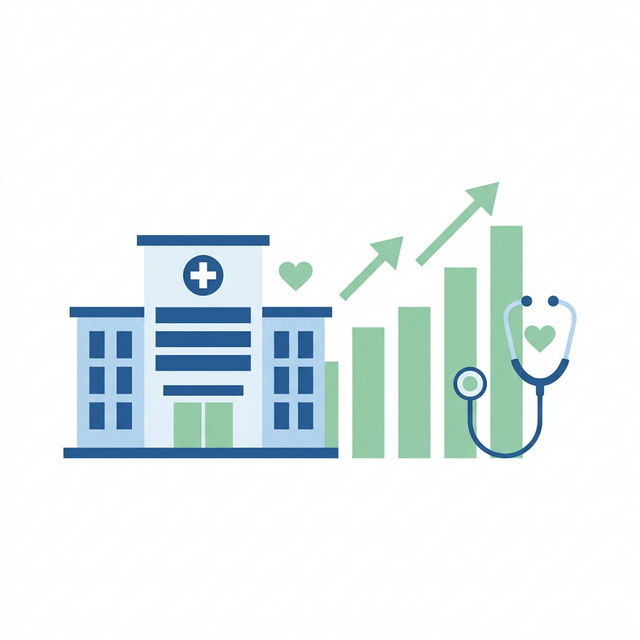
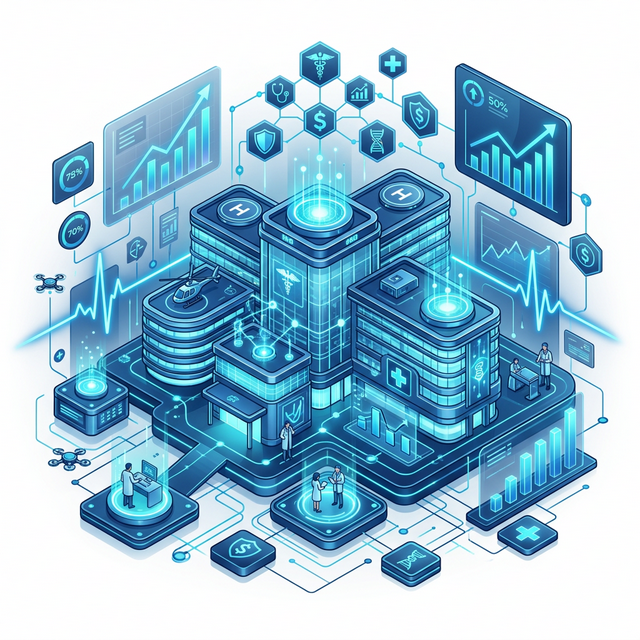
add login page new design

diff --git a/bootstrap/app.php b/bootstrap/app.php
@@ -30,7 +30,6 @@ return Application::configure(basePath: dirname(__DIR__))
             if ($request->expectsJson()) {
                 return response()->json(['message' => __('Session expired. Please try again.')], 419);
             }
-            // If session expired on logout, send to login instead of back (avoids 419 page)
             if ($request->is('logout')) {
                 return redirect()->route('login')
                     ->with('error', __('Session expired. Please try again.'));
@@ -38,5 +37,20 @@ return Application::configure(basePath: dirname(__DIR__))
             return redirect()->back()
                 ->withInput($request->except('password', '_token'))
                 ->with('error', __('Session expired. Please try again.'));
+        });
+
+        // عند خطأ صلاحيات مفتاح OAuth (بعد فترة عدم استخدام أو على السيرفر): إعادة توجيه لتسجيل الدخول بدل 500
+        $exceptions->renderable(function (\Throwable $e, $request) {
+            $msg = $e->getMessage();
+            $isOauthKeyError = (str_contains($msg, 'oauth-public.key') || str_contains($msg, 'oauth-private.key'))
+                && (str_contains($msg, 'permission') || str_contains($msg, '644'));
+            if ($isOauthKeyError) {
+                if ($request->expectsJson()) {
+                    return response()->json(['message' => __('Session or server error. Please log in again.')], 500);
+                }
+                return redirect()->route('login')
+                    ->with('error', __('Session or server error. Please log in again.'));
+            }
+            return null;
         });
     })->create();

diff --git a/resources/views/auth/login.blade.php b/resources/views/auth/login.blade.php
@@ -44,6 +44,17 @@
                 {{-- Welcome Text --}}
                 <p class="text-slate-400 text-sm mb-10">Welcome back! Please login to your account.</p>
 
+                @if (session('error'))
+                    <div class="mb-6 p-4 rounded-lg bg-amber-50 border border-amber-200 text-amber-800 text-sm">
+                        {{ session('error') }}
+                    </div>
+                @endif
+                @if (session('success'))
+                    <div class="mb-6 p-4 rounded-lg bg-green-50 border border-green-200 text-green-800 text-sm">
+                        {{ session('success') }}
+                    </div>
+                @endif
+
                 <form method="POST" action="{{ route('login') }}">
                     @csrf
                     <div class="bg-[#EEF2F6] p-6 mb-8">

diff --git a/config/session.php b/config/session.php
@@ -32,9 +32,9 @@ return [
     |
     */
 
-    'lifetime' => (int) env('SESSION_LIFETIME', 120),
+    'lifetime' => (int) env('SESSION_LIFETIME', 480),
 
-    'expire_on_close' => env('SESSION_EXPIRE_ON_CLOSE', true),
+    'expire_on_close' => env('SESSION_EXPIRE_ON_CLOSE', false),
 
     /*
     |--------------------------------------------------------------------------
